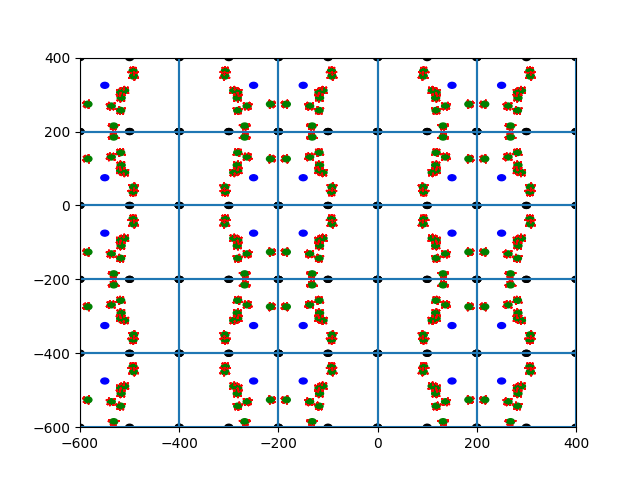
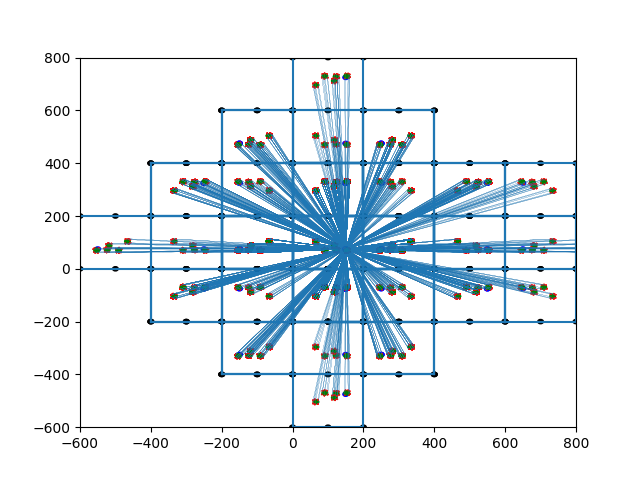
mirror-table-v3

diff --git a/test.py b/test.py
@@ -4,14 +4,19 @@ import numpy as np
 from table import Table
 import matplotlib.pyplot as plt
 from matplotlib.lines import Line2D
+import tree
+import time
 
+time_start = round(time.time() * 1000)
 fig, ax = plt.subplots()
 
-ax.set_xlim((-600, 400))
-ax.set_ylim((-600, 400))
+ax.set_xlim((-600, 800))
+ax.set_ylim((-600, 800))
 
 
-def print_table(tables):
+def print_table(root, tables):
+    
+    ball_start = np.array((root.mball.pos[0,0], root.mball.pos[1,0]))
     for table in tables:
         line_x, line_y = (table.holes[0].pos[0,0], table.holes[2].pos[0,0]), (table.holes[0].pos[1,0], table.holes[2].pos[1,0])
         line = Line2D(line_x, line_y)
@@ -29,16 +34,19 @@ def print_table(tables):
         line = Line2D(line_x, line_y)
         ax.add_line(line)
         
-        
         ball = plt.Circle(np.array((table.mball.pos[0,0], table.mball.pos[1,0])), 8, color='blue')
+        
         ax.add_patch(ball)
         for tball in table.tballs:
             circle = plt.Circle(np.array((tball.pos[0,0], tball.pos[1,0])), 8, color='green')
             ax.add_patch(circle)
             for pos in tball.hit_pos:
                 # print(pos)
-                hit = plt.Circle(np.array((pos[0,0], pos[1,0])), 0.5, color='red')
+                ball_end = np.array((pos[0,0], pos[1,0]))
+                hit = plt.Circle(ball_end, 0.5, color='red')
                 ax.add_patch(hit)
+                line = Line2D((ball_start[0], ball_end[0]), (ball_start[1], ball_end[1]), linewidth=0.05)
+                ax.add_line(line)
             
         for hole in table.holes:
             # print(hole.pos)
@@ -51,7 +59,7 @@ def print_table(tables):
 # Init balls & holes
 mball = Ball(np.matrix([[150], [75]]))
 tballs = []
-for i in range(0, 9):
+for i in range(0, 5):
     tballs.append(Ball(np.matrix([[random.randint(10, 120)+10*i], [random.randint(10, 120)+10*i]])))
 
 hole = [Hole(np.matrix([[0], [0]])), Hole(np.matrix([[100], [0]])), Hole(np.matrix([[200], [0]]))
@@ -59,10 +67,29 @@ hole = [Hole(np.matrix([[0], [0]])), Hole(np.matrix([[100], [0]])), Hole(np.matr
 
 table = Table(np.matrix([[3], [3]]), np.matrix([[0], [0]]), mball, tballs, hole)
 
-mtable = []
-for i in range(0, 5):
-    for j in range(0, 5):
-        t = table.mirror_table(np.matrix([[i], [j]]))
-        mtable.append(t)
-        
-print_table(mtable)
+
+# mtable = []
+# for i in range(1, 6):
+#     for j in range(1, 6):
+#         t = table.mirror_table(np.matrix([[i], [j]]))
+#         mtable.append(t)
+
+q = []
+mtable = []        
+tree_node = tree.TreeNode.find_mtable_tree(3)
+q.append(tree_node)
+while len(q) > 0:
+    node = q.pop(0)
+    print(node.index)
+    t = table.mirror_table(np.matrix([[node.index[0]], [node.index[1]]]))
+    mtable.append(t)
+    for child in node.child:
+        q.append(child)
+time_mid = round(time.time() * 1000)
+print(time_mid - time_start)
+
+print_table(table, mtable)
+
+time_end = round(time.time() * 1000)
+
+print(time_end - time_mid)

diff --git a/tree.py b/tree.py
@@ -30,9 +30,12 @@ class TreeNode:
                 child_node = TreeNode(child_index, current_node, [], level+1)
                 # print(child_node.index)
                 q.append(child_node)
-                
+                current_node.child.append(child_node)
+                                
             if level == cushion_amt:
                 break
         return root_node
             
-root_node = TreeNode.find_mtable_tree(3)
+# root_node = TreeNode.find_mtable_tree(3)
+# for child in root_node.child:
+    # print(child.index)
